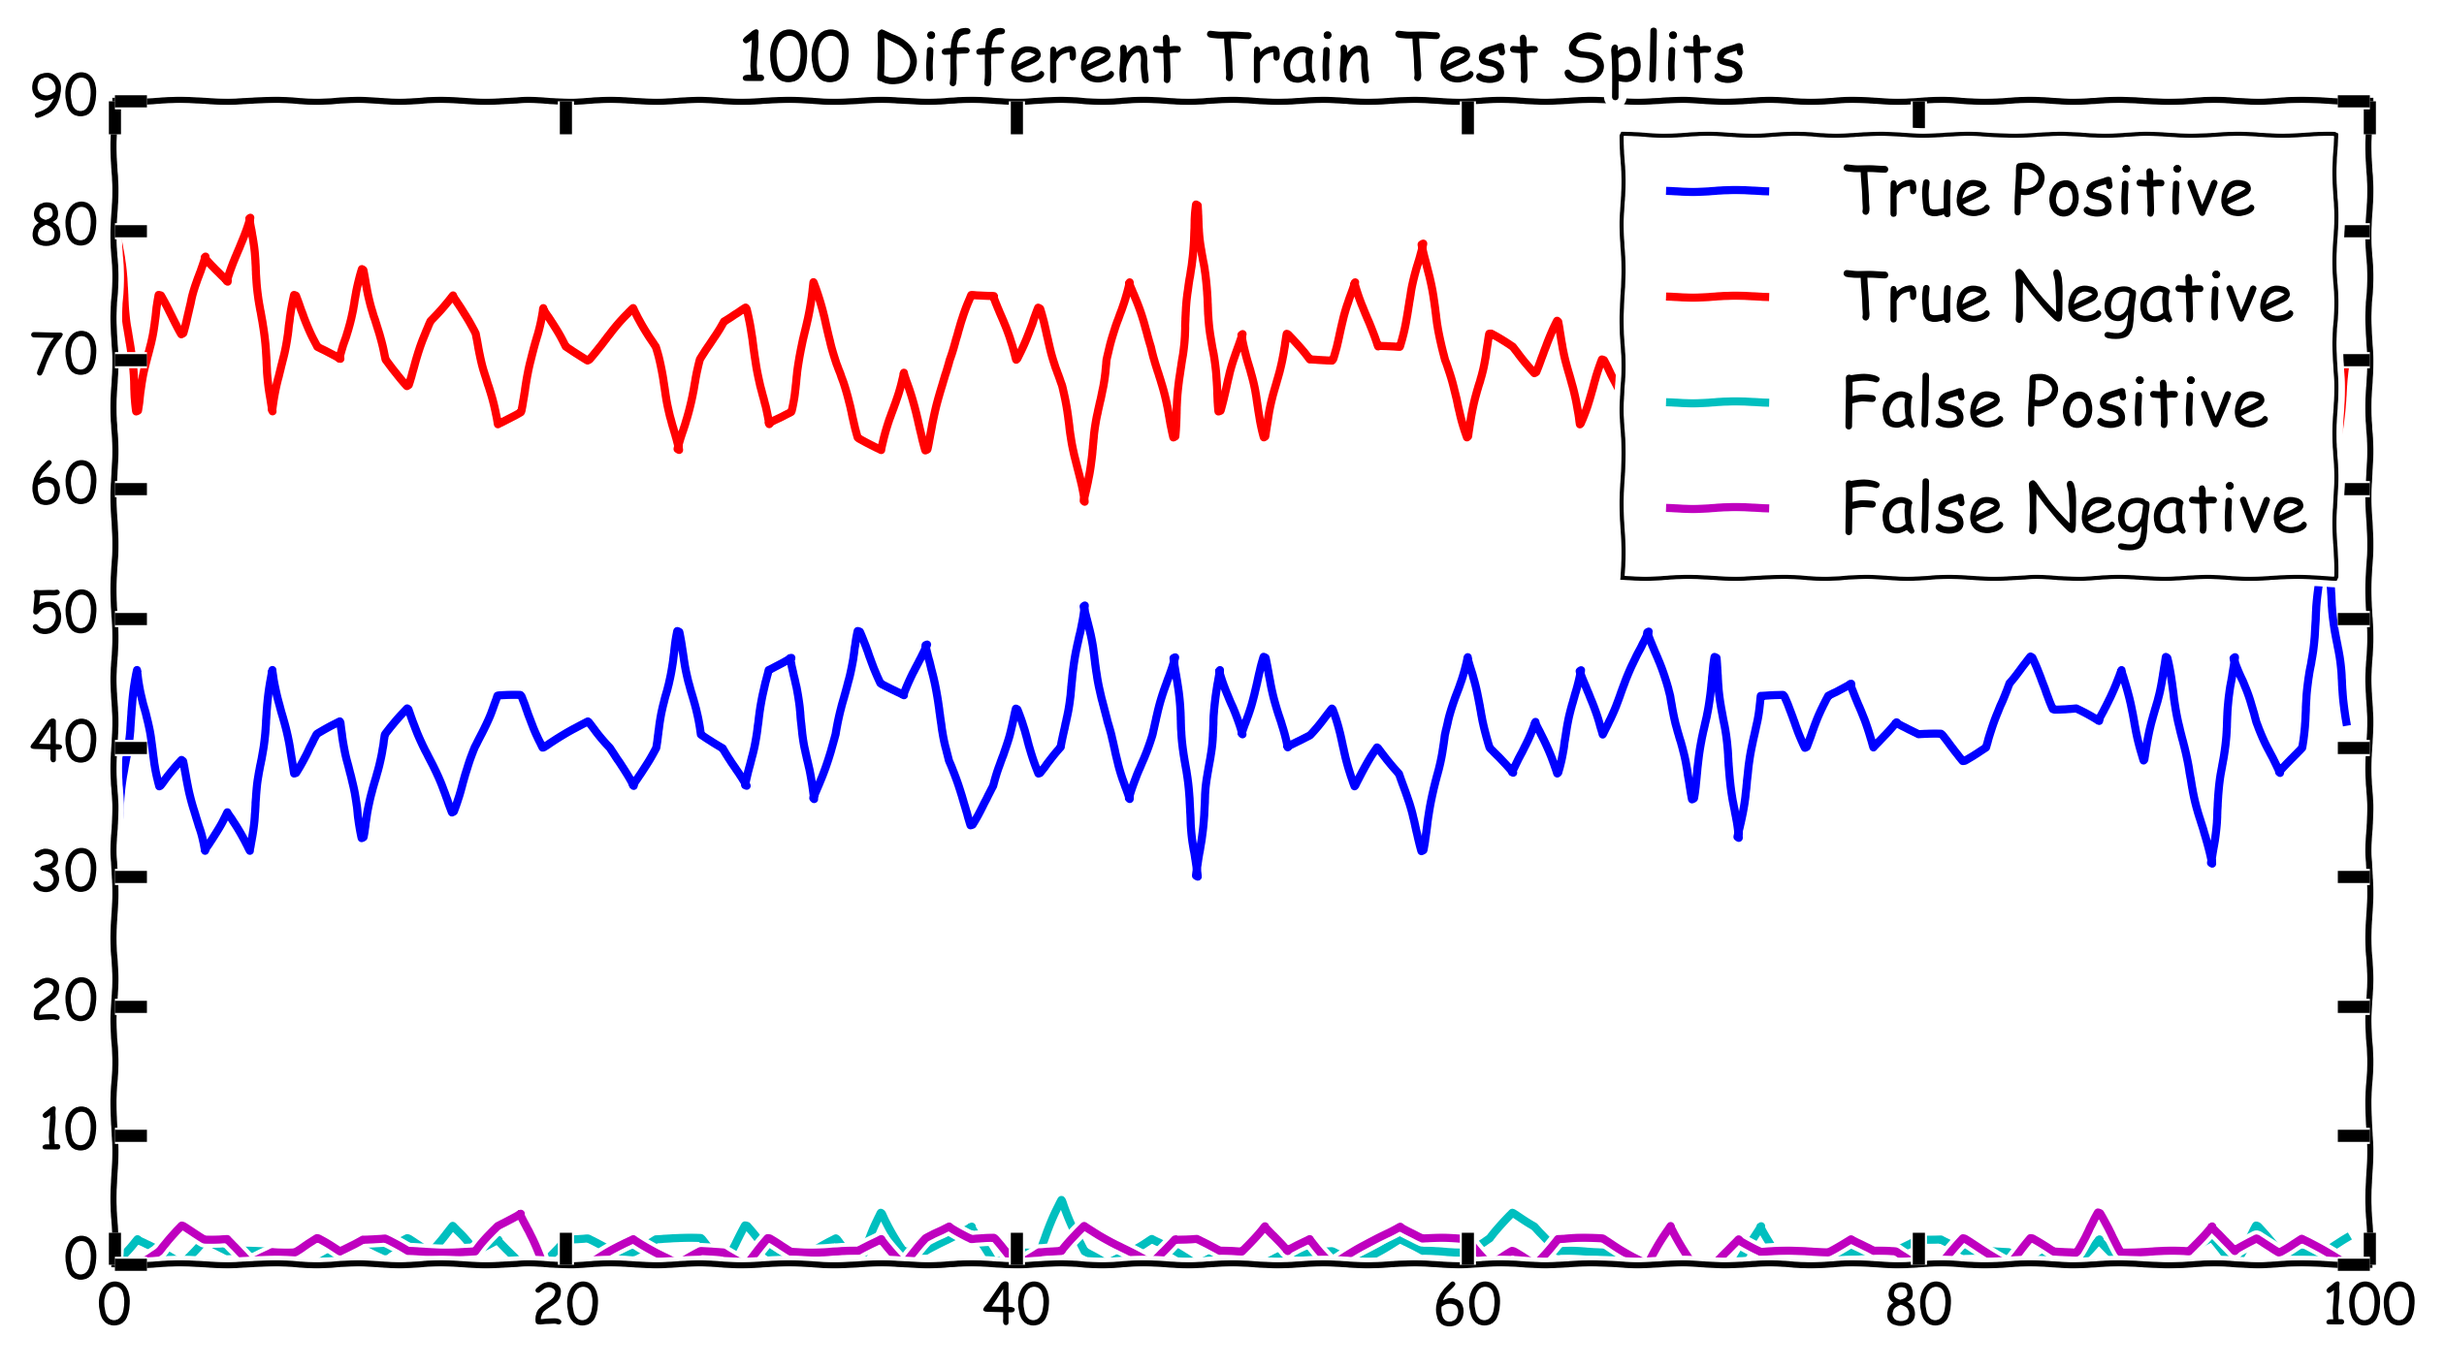
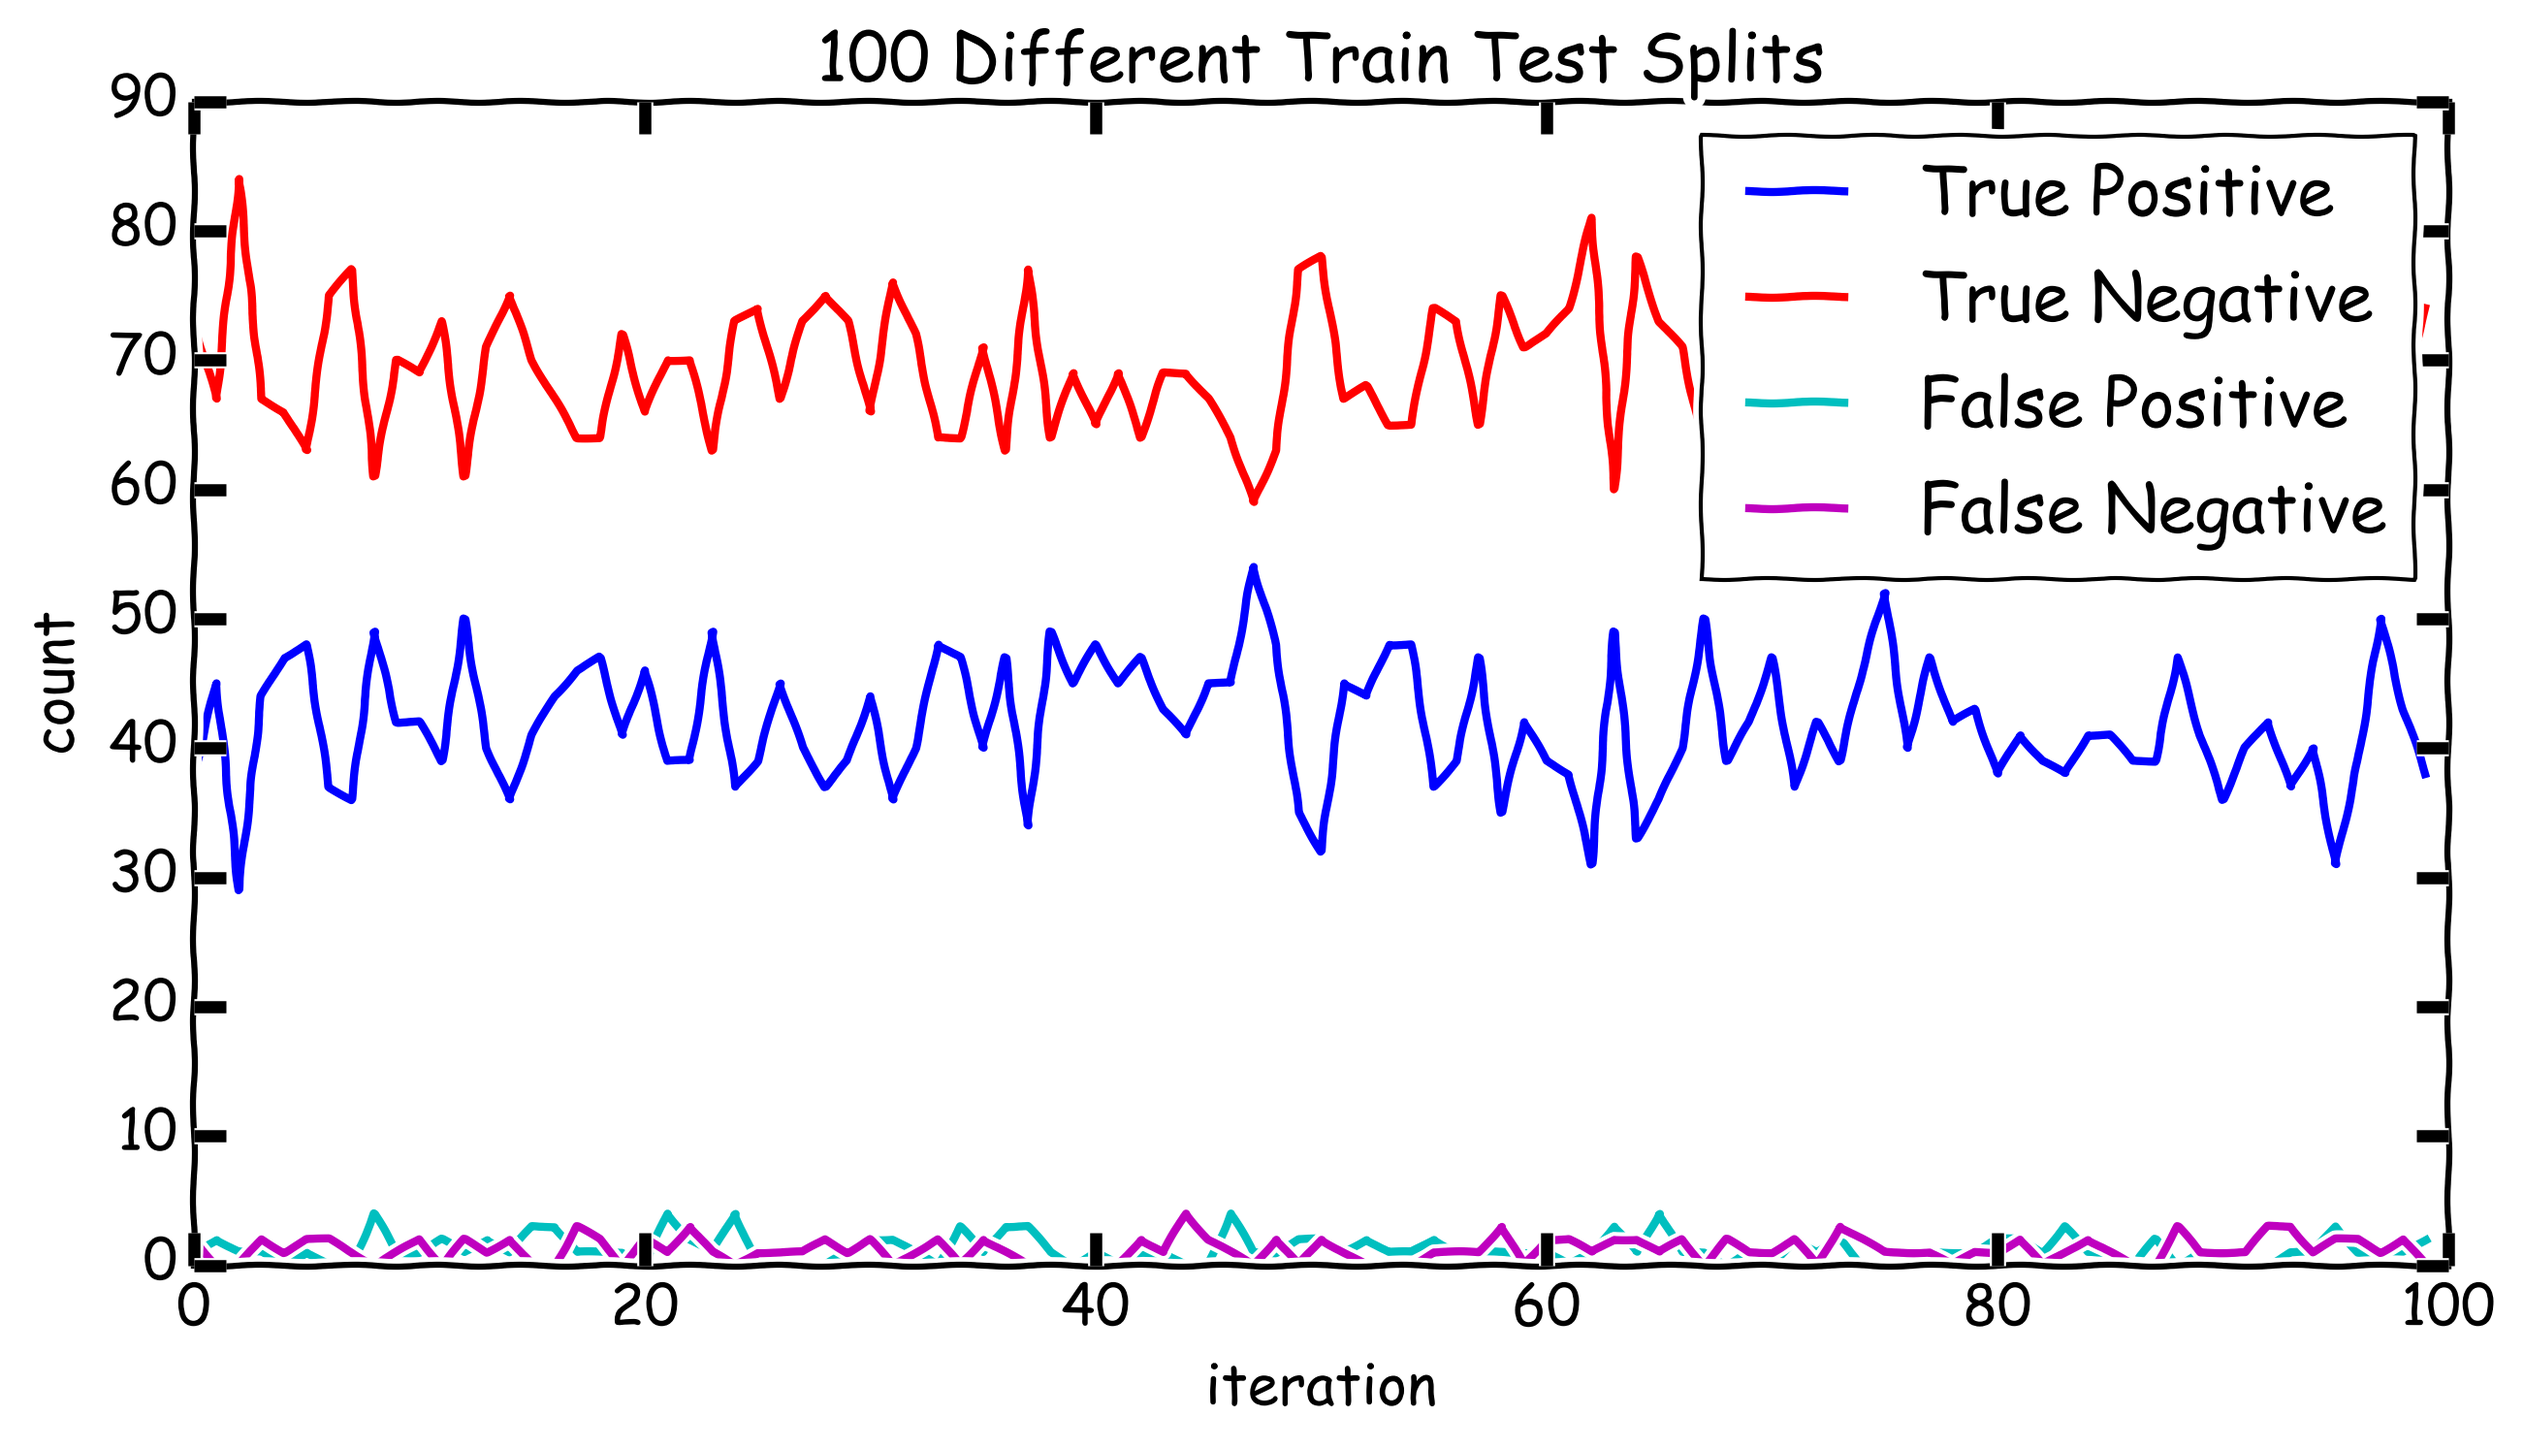
graph

Changed region(s): [[0.0, 0.0, 0.9901, 0.966], [0.9591, 0.5921, 0.9901, 0.7479]]

diff --git a/run_model.py b/run_model.py
@@ -97,5 +97,8 @@ plt.plot(outcome_df.true_negative, label='True Negative')
 plt.plot(outcome_df.false_positive, label='False Positive')
 plt.plot(outcome_df.false_negative, label='False Negative')
 plt.title('100 Different Train Test Splits')
+plt.xlabel('iteration')
+plt.ylabel('count')
 plt.legend()
-plt.show()
+plt.savefig('graph.png', bbox_inches='tight', dpi=300)
+# plt.show()
